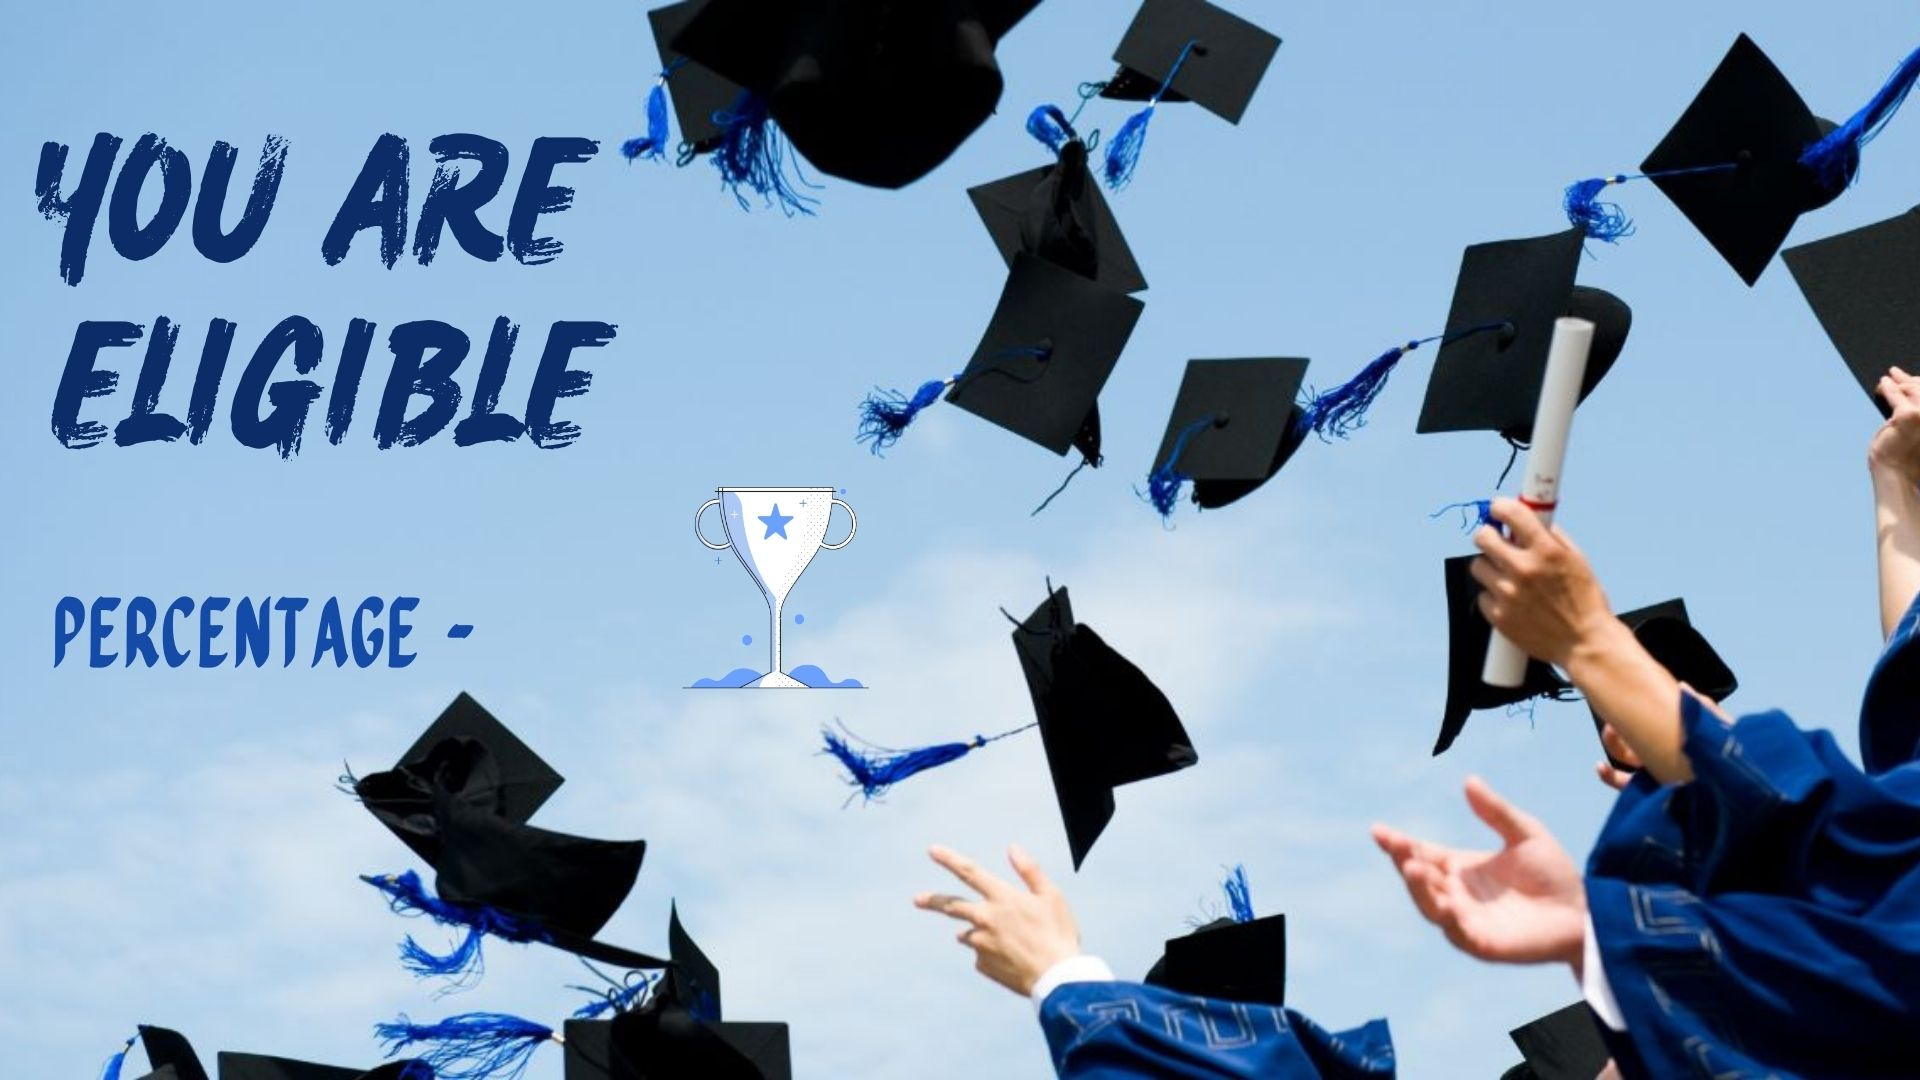
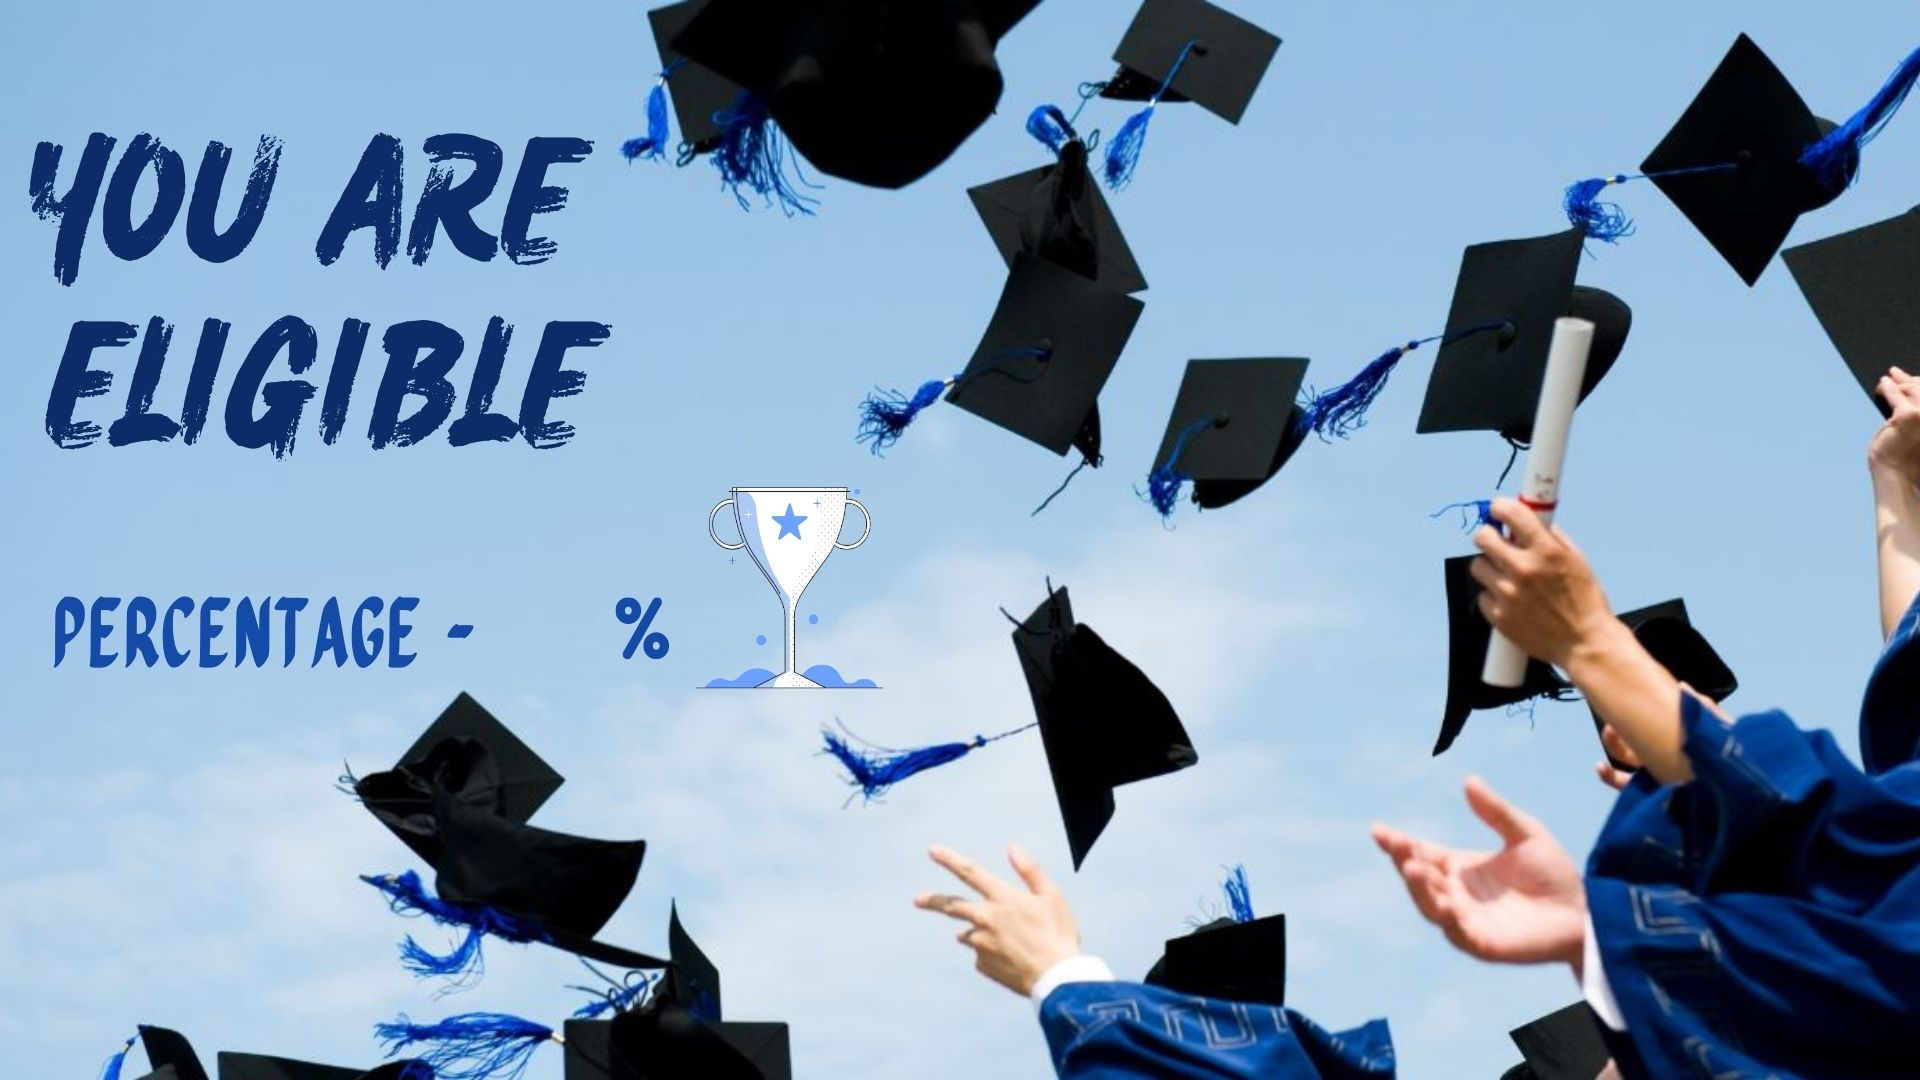
commit

diff --git a/UAEP MAIN/templates/sucess.html b/UAEP MAIN/templates/sucess.html
@@ -12,22 +12,22 @@ position: absolute;
 bottom: 210px;
 
 left: 30px;
-font-size: 40px;
+font-size: 90px;
 }
 p{
 
   position: absolute;
-  bottom: 170px;
- 
-  left: 30px;
+  bottom: 200px;
+  color:#154ba8;
+  left: 300px;
 font-size: 40px;
 }
 
 </style>
 </head>
 <body>
-<pre>The Percentage is</pre>
-<p id="failure"></p>
+<!--<pre>The Percentage is</pre>-->
+<strong><p id="failure"></p></strong>
 <script>
 let x = '{{prediction_text}}';
 document.getElementById("failure").innerHTML = x;
